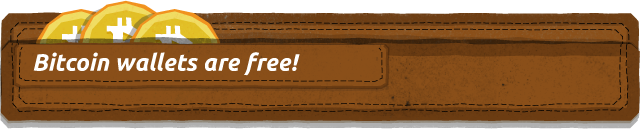
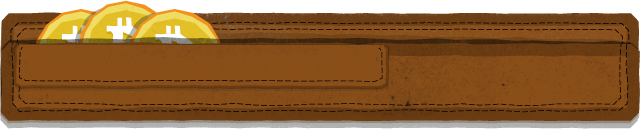
Translated remaining pages and updated merchant image.

Changed region(s): [[0.0312, 0.391, 0.4688, 0.5714]]

diff --git a/getting-started.html b/getting-started.html
@@ -1,9 +1,10 @@
 <!doctype html>
 <html>
 <head>
-<title>Getting Started with Bitcoin - We Use Coins</title>
+<meta http-equiv="Content-Type" content="text/html; charset=UTF-8">
+<title>ビットコインの利用を開始する</title>
 <link rel="stylesheet" href="fonts/Ubuntu.css" type="text/css" media="screen" />
-<link rel="stylesheet" href="style.css%3F1.css" type="text/css" media="screen" />
+<link rel="stylesheet" href="style.css" type="text/css" media="screen" />
 <link rel="shortcut icon" href="favicon.ico">
 <script language="javascript" src="http://ajax.googleapis.com/ajax/libs/jquery/1.5.2/jquery.min.js" type="text/javascript"></script>
 <script language="javascript" src="scripts/vendor/jquery.backgroundPosition.js" type="text/javascript"></script>
@@ -15,91 +16,72 @@
   <div id="header">
     <div id="logo"><a href="index.html"><span>We Use Coins</span></a></div>
     <ul id="menu">
-      <li id="menu_whatis"><a href="index.html"><span>What is Bitcoin?</span></a></li>
-      <li id="menu_getstarted"><a href="getting-started.php.html"><span>Getting Started</span></a></li>
-      <li id="menu_qna"><a href="questions.php.html"><span>Questions &amp; Answers</span></a></li>
-      <li id="menu_merchants"><a href="merchant-tools.php.html"><span>Bitcoin for Merchants</span></a></li>
+      <li id="menu_whatis"><a href="index.html"><span>ビットコイン<br />とは?</span></a></li>
+      <li id="menu_getstarted"><a href="getting-started.html"><span>利用を<br />開始する</span></a></li>
+      <li id="menu_merchants"><a href="merchant.html"><span>商用<br />ビットコイン</span></a></li>
     </ul>
     <div class="clear">&nbsp;</div>
   </div>
-  <img src="gx/tagline.png" alt="your portal into the world of bitcoin"/>
+  <h1>ビットコインの利用を開始する</h1>
   <div id="content">
-<h1 id="getwallet">Step 1 - Get a wallet</h1>
-<p>The <a href="http://www.bitcoin.org/">Original Bitcoin Client</a> is free, open-source software. The current version is <strong>0.7.1</strong>, you can download it here:</p>
+<h1 id="getwallet">ステップ１‐ ウォレットを作る</h1>
+<p><a href="http://www.bitcoin.co.jp/">オリジナル ビットコイン クライエント</a>は無料のオープンソース ソフトウェアです。現在のバージョンは<strong>0.7.1</strong>です。<br /><br />ここからダウンロードできます：</p>
 <a href="http://sourceforge.net/projects/bitcoin/files/Bitcoin/bitcoin-0.7.1/bitcoin-0.7.1-win32-setup.exe/download" class="downloadfeature"><img src="gx/os_win_l.png" alt="Windows Logo" class="icon"/>
   <p class="first title">Windows</p>
-  <p class="desc">Windows Setup (9.2MB)</p>
+  <p class="desc">インストーラー (9.2MB)</p>
   <div class="autobutton download"></div>
 </a>
 <a href="http://sourceforge.net/projects/bitcoin/files/Bitcoin/bitcoin-0.7.1/bitcoin-0.7.1-macosx.dmg/download" class="downloadfeature"><img src="gx/os_mac_l.png" alt="Mac Logo" class="icon"/>
   <p class="first title">Mac</p>
-  <p class="desc">Mac Installer (12.0MB)</p>
+  <p class="desc">インストーラー (12.0MB)</p>
   <div class="autobutton download"></div>
 </a>
 <a href="http://sourceforge.net/projects/bitcoin/files/Bitcoin/bitcoin-0.7.1/bitcoin-0.7.1-linux.tar.gz/download" class="downloadfeature"><img src="gx/os_linux_l.png" alt="Linux Logo" class="icon"/>
   <p class="first title">Linux</p>
-  <p class="desc">Code & Binaries (11.1MB)</p>
+  <p class="desc">コード ＆ バイナリー (11.1MB)</p>
   <div class="autobutton download"></div>
 </a>
 <div class="clear"></div>
 <img src="gx/img_wallet.png" alt="Bitcoin Wallet" class="img_right"/>
-<p>After downloading, simply install the client on your Windows, Mac or Linux computer. It will automatically create a wallet for you and start downloading the transaction history. (Future versions will have a &quot;lightweight&quot; mode where this is not necessary.)</p>
-<p>Another way to get a wallet is to get one online at <a href="http://www.flexcoin.com/">flexcoin</a>, <a href="http://www.instawallet.org/">InstaWallet</a> or <a href="https://blockchain.info/wallet">MyWallet</a>. With this option you don't have to install anything, but you have to take great care not to lose your password and you're trusting that site to keep your wallet safe.</p>
-<p>Once your wallet is set up, you'll get your first Bitcoin address, which means you're ready to receive Bitcoins!</p>
-<h1 id="getbitcoin">Step 2 - Get Bitcoins</h1>
+<p>ダウンロードが完了しましたら、あとはお持ちのWindows, Mac または Linux コンピューターにインストールするだけです。これによりお客様のウォレットが自動的に作成され、取引の履歴のダウンロードが始まります。この作業には数時間かかります。(今後のバージョンには｢ライト｣モードが追加される予定で、この過程が不要になります)</p>
+<p>ウォレットを作るもう一つの方法は、<a href="https://blockchain.info/wallet">Blockchain.info</a> のオンライン上で入手する方法です。一回限りのクイック ウォレットが必要な場合は、<a href="http://www.instawallet.org/">InstaWallet.org</a> をお試しください。</p>
+<p>ウォレットのセットアップが完了しましたら、最初のビットコイン アドレス を入手してください。これでビットコインを受け取る準備ができました。</p>
+<div class="clear">&nbsp;</div>
+<h1 id="getbitcoin">ステップ２‐ ビットコインを手に入れる</h1>
 <div class="amountpara">
 <img src="gx/amount_few.png" alt="Small amount of coins"/>
-<p>Not the most convenient way, but <a href="https://en.bitcoin.it/wiki/Bonus_Programs">bonus programs</a> offer small amounts of Bitcoins when making other purchases, for completing surveys etc.</p>
+<p><a href="https://en.bitcoin.it/wiki/Bonus_Programs">ボーナス プログラム</a>（英語）は最も便利な方法ではありませんが、他の購入または調査を完了いただいた際に、小額のビットコインを差し上げます。</p>
 </div>
 <div class="amountpara">
 <img src="gx/amount_some.png" alt="Medium amount of coins"/>
-<!--<p>For anyone buying less than 40 BTC/week, <a href="http://coinpal.ndrix.com/">CoinPal</a> sells Bitcoins through PayPal.</p>-->
-<p>See if there are local Bitcoiners in your area at <a href="http://localbitcoins.com/">LocalBitcoins.com</a> and <a href="http://www.tradebitcoin.com/">TradeBitcoin.com</a>!</p>
-<p>Physical Bitcoins are available through <a href="http://www.casascius.com">Casascius</a> and <a href="http://www.bitbills.com">BitBills</a>. Those places only accept Bitcoin, but you can get them with a credit card through <a href="http://www.memorydealers.com/bieq.htm">MemoryDealers</a>. You do pay a markup for the production and delivery, but it's a fairly easy way to get moderate amounts of coins. Plus the physical coins make a great and memorable gift!</p>
+<p>数千円の取引については、<a href="http://localbitcoins.com/">LocalBitcoins.com</a> または<a href="http://www.tradebitcoin.com/">TradeBitcoin.com</a>でお客様のお住まいの地域にビットコイン ユーザーがいるかお確かめください。</p>
 </div>
 <div class="amountpara">
 <img src="gx/amount_lots.png" alt="Large amount of coins"/>
-<p>For larger purchases there are several currency exchanges, such as <a href="https://www.mtgox.com/">Mt. Gox</a>, <a href="https://www.intersango.com/">Intersango</a>, <a href="https://www.cavirtex.com/">Virtex (CA)</a> and <a href="https://get-bitcoin.com/">GetBitcoin (US)</a>.</p>
-<p>Fund your exchange accounts or  buy Bitcoin directly at one of over 700 000 locations worldwide via <a href="https://www.bitinstant.com/">BitInstant</a>.</p>
-<p>If you prefer skipping the exchange and dealing directly with other people you can head over to <a href="http://bitcoin-otc.com/">Bitcoin OTC</a>.</p>
+<p>ビットコインのより高額の購入については、いくつかの両替所があります。これらは口座を作るのに時間がかかりますが、非常に安全です。当サイトのお勧めは渋谷にある<a href="https://www.mtgox.com/">Mt. Gox</a>です。</p>
 </div>
 <div class="clear">&nbsp;</div>
 
-<h1 id="whattodo">What to do with my Bitcoins?</h1>
-<p>You can find lots of Bitcoin-related services on the <a href="https://en.bitcoin.it/wiki/Trade">Trade page</a> in the Bitcoin Wiki.</p>
-<p>Check out Bitcoin's largest online auction house at <a href="http://bitmit.net/">BitMit</a>!</p>
-<p>An increasing number of physical stores, restaurants and other venues accept Bitcoin as well. Check <a href="http://bitcoin.travel/">Bitcoin Travel</a> and <a href="http://bitcoinnavigator.com/">Bitcoin Navigator</a> to see if there are any in your area.</p>
-<p>Turn your Bitcoins into gift cards from Amazon, Barnes & Noble, iTunes and many more at <a href="https://www.spendbitcoins.com/">SpendBitcoins.com</a>. Or get gift codes for services like XBoxLive, PSN or iTunes instantly online at <a href="http://bitcoincodes.com/">Bitcoincodes.com</a>.</p>
-<p>Buy music, ebooks, wallpapers and other downloadable content at <a href="https://www.coindl.com/">CoinDL</a>!</p>
-<p>You might also want to check the <a href="http://www.bitcoin.org/smf/index.php?board=5.0">Bitcoin Marketplace forum</a> on Bitcoin.org.</p>
-<p>Over-the-counter trading is being done via IRC chat in <a href="http://bitcoin-otc.com/">Bitcoin OTC</a> (#bitcoin-otc on Freenode).</p>
+<h1 id="whattodo">ビットコインを使って何ができますか？</h1>
+<p>ビットコイン ウィキの<a href="https://en.bitcoin.it/wiki/Trade">トレード ページ</a>でビットコインに関連した多くのサービスをみつけることができます。</p>
+<p><a href="http://bitmit.net/">BitMit.net</a>でビットコインの最大の<strong>オークション サイト</strong>をお試しください！</p>
+<p>実在の店舗、レストランやその他の場所でもビットコインを利用できるところが増えています。お客様のお住まいのエリアにあるかどうか、<a href="http://bitcoin.travel/">ビットコイン トラベル</a> または <a href="http://bitcoinnavigator.com/">ビットコイン ナビゲーター</a> でお確かめください。</p>
+<p><a href="https://www.coindl.com/">CoinDL.com</a>で、音楽、電子書籍、壁紙、その他のダウンロード可能コンテンツを購入できます！</p>
+<p><a href="https://bitcointalk.org/index.php?board=5.0">ビットコイン マーケットプレース フォーラム</a>もご覧ください。</p>
+<p>Freenodeの#bitcoin-otcにおけるIRCチャットを通じて<strong>店頭取引</strong>を行うことも可能です。<a href="http://bitcoin-otc.com/">(bitcoin-otc.com)</a></p>
 
-<h1 id="keepup">Keep up with the community <a href="getting-started.php.html#" class="blocktoggle"> more &raquo;</a></h1>
-<div class="block_outer">
-<div class="block" style="display: none">
-<p class="first">Here are some good places to follow if you want to stay in touch with current Bitcoin events:</p>
-<ul>
-  <li><a href="http://www.bitcoinmoney.com">Bitcoin Money</a> - Bitcoin news and articles</li>
-  <li><a href="http://www.bitcoinnews.com">Bitcoin News</a> - Daily diary of what's happening with Bitcoin</li>
-  <li><a href="http://www.thebitcointrader.com">The Bitcoin Trader</a> - Blog with original articles about the Bitcoin market</li>
-  <li><a href="http://www.reddit.com/r/bitcoin">r/bitcoin</a> - Bitcoin links and discussion by the Reddit community</li>
-  <li><a href="http://btctrading.wordpress.com">Bitcoin Trading Signals</a> - Technical analysis and market coverage</li>
-  <li><a href="http://themonetaryfuture.blogspot.com">The Monetary Future</a> - Virtual currency news and analysis</li>
-</ul>
-<p class="last">Also, for an overview of the Bitcoin world at a glance, try <a href="http://www.bitcoinwatch.com/">Bitcoin Watch</a>.</p>
-</div>
-</div>
   </div>
   <div id="needhelp" class="box featurebox fullwidth">
-    <div class="left"><strong>Need help?</strong> Email <a href="mailto:help@weusecoins.com">help@weusecoins.com</a> to contact one of our volunteers.</div>
-    <div class="right">Powered by <a href="http://www.coinabul.com/">Coinabul</a></div>
+    <div class="left"><strong>お困りですか ?</strong> <a href="mailto:help@weusecoins.jp">help@weusecoins.jp</a> へメールを下されば、ボランティアの一人が対応します。</div>
+    <div class="right">翻訳： <a href="http://jonwaller.net/ja/">jonwaller.net</a></div>
     <div class="clear"></div>
   </div>
   <div id="footer">
-	<div class="footermenu"><ul><li><a href="materials.php.html">Materials</a></li><li><a href="about.php.html">About</a></li></ul></div>
-	<a href="http://creativecommons.org/licenses/by/3.0/" class="cclogo"><img src="gx/footer_cc.png" alt=""/></a>
-	<div class="license">This work is licensed under a<br>
-	<a href="http://creativecommons.org/licenses/by/3.0/">Creative Commons Attribution 3.0 Unported License</a></div>
+  <div class="footermenu"><ul><li><a href="about.html">このサイトについて</a></li></ul></div>
+  <a href="http://creativecommons.org/licenses/by/3.0/" class="cclogo"><img src="gx/footer_cc.png" alt=""/></a>
+  <div class="license">
+    This work is licensed under a <a href="http://creativecommons.org/licenses/by/3.0/">Creative Commons Attribution 3.0 Unported License</a>.<br />
+    This work is based on the original English-language site at <a href="http://www.weusecoins.com/">weusecoins.com</a>.
   </div>
 </div>
 

diff --git a/merchant.html b/merchant.html
@@ -1,9 +1,10 @@
 <!doctype html>
 <html>
 <head>
-<title>Merchant Solutions Bitcoin - Shopping cart APIs and Merchant Tools - We Use Coins</title>
+<meta http-equiv="Content-Type" content="text/html; charset=UTF-8">
+<title>商用ビットコイン - APIと商用ツール</title>
 <link rel="stylesheet" href="fonts/Ubuntu.css" type="text/css" media="screen" />
-<link rel="stylesheet" href="style.css%3F1.css" type="text/css" media="screen" />
+<link rel="stylesheet" href="style.css" type="text/css" media="screen" />
 <link rel="shortcut icon" href="favicon.ico">
 <script language="javascript" src="http://ajax.googleapis.com/ajax/libs/jquery/1.5.2/jquery.min.js" type="text/javascript"></script>
 <script language="javascript" src="scripts/vendor/jquery.backgroundPosition.js" type="text/javascript"></script>
@@ -13,52 +14,38 @@
 <div id="background"></div>
 <div id="wrapper">
   <div id="header">
-    <div id="logo"><a href="index.html"><span>We Use Coins</span></a></div>
+    <div id="logo"><a href="index.html"><span>We Use Coins 日本</span></a></div>
     <ul id="menu">
-      <li id="menu_whatis"><a href="index.html"><span>What is Bitcoin?</span></a></li>
-      <li id="menu_getstarted"><a href="getting-started.php.html"><span>Getting Started</span></a></li>
-      <li id="menu_qna"><a href="questions.php.html"><span>Questions &amp; Answers</span></a></li>
-      <li id="menu_merchants"><a href="merchant-tools.php.html"><span>Bitcoin for Merchants</span></a></li>
+      <li id="menu_whatis"><a href="index.html"><span>ビットコイン<br />とは?</span></a></li>
+      <li id="menu_getstarted"><a href="getting-started.html"><span>利用を<br />開始する</span></a></li>
+      <li id="menu_merchants"><a href="merchant.html"><span>商用<br />ビットコイン</span></a></li>
     </ul>
     <div class="clear">&nbsp;</div>
   </div>
-  <img src="gx/tagline.png" alt="your portal into the world of bitcoin"/>
+  <h1><strong>商用ビットコイン</strong></h1>
   <div id="content">
 
 <img src="gx/img_shop.png" alt="Bitcoin Shop" class="img_right"/>
-<h1 id="whatbenefits">What are the benefits for Merchants?</h1>
-<p>Bitcoins have great properties for consumer transactions. Low fees mean you can pass the savings on and get a price advantage over other merchants. There are no chargebacks in Bitcoin, any confirmed transaction is protected by the full hashing power of the network. So businesses can accept bitcoins from any country in the world, with no risk of fraud or chargebacks.</p>
+<h1 id="whatbenefits">販売業者にとっての利点は何ですか？</h1>
+<p>商取引において世界中のあらゆる国からビットコインを受け取ることができます。手数料が安く、支払い拒否がないため、顧客に節約分を還元でき、また他の販売業者に対し価格において優位に立つことができます。</p>
 
-<h1 id="pos">Point-of-Sale (POS) Transactions</h1>
-<p>In retail stores, Bitcoins can be used side-by-side with local currency and credit cards.  The merchant will need some type of point-of-sale software, which can calculate the exchange rate. They can generate an address to the shopper and monitor their account to see the payment has been received.</p>
-
-<h1 id="features">Features to look for</h1>
-<p>Here are some common questions that merchants should ask:</p>
-<ol>
-  <li>Can I get a unique Bitcoin address for each transaction?</li>
-  <li>How is the exchange rate calculated?</li>
-  <li>How fast are payments approved?</li>
-  <li>What is my exchange rate risk?</li>
-  <li>How do I receive the funds?</li>
-  <li>Are there any fees involved?</li>
-  <li>How can I see a listing of my sales?</li>
-</ol>
-
-<h1 id="providers">Payment providers</h1>
-<p>Merchant tools with USD exchange: <a href="https://bitpay.com">BitPay</a>, <a href="https://paysius.com/">Paysius</a> and <a href="http://bitspend.eu">BitSpend.EU</a></p>
-<p>Bitcoin-only merchant tools: <a href="https://walletbit.com/">WalletBit</a> and <a href="http://www.acceptbit.com/">AcceptBit</a>.</p>
-<p>A full list of available shopping cart interfaces can be found at the <a href="https://en.bitcoin.it/wiki/Category:Shopping_Cart_Interfaces">Wiki page</a>.</p>
+<h1 id="providers">商用ツール</h1>
+<p>ビットコインとドル： <a href="https://bitpay.com">BitPay.com</a>や<a href="https://paysius.com/">Paysius.com</a></p>
+<p>ビットコインだけ：<a href="https://walletbit.com/">WalletBit.com</a>や<a href="http://www.acceptbit.com/">AcceptBit.com</a></p>
+<p>オンラインストーア： <a href="https://en.bitcoin.it/wiki/Category:Shopping_Cart_Interfaces">オンラインストーアのウィキページ</a></p>
   </div>
   <div id="needhelp" class="box featurebox fullwidth">
-    <div class="left"><strong>Need help?</strong> Email <a href="mailto:help@weusecoins.com">help@weusecoins.com</a> to contact one of our volunteers.</div>
-    <div class="right">Powered by <a href="http://www.coinabul.com/">Coinabul</a></div>
+    <div class="left"><strong>お困りですか ?</strong> <a href="mailto:help@weusecoins.jp">help@weusecoins.jp</a> へメールを下されば、ボランティアの一人が対応します。</div>
+    <div class="right">翻訳： <a href="http://jonwaller.net/ja/">jonwaller.net</a></div>
     <div class="clear"></div>
   </div>
   <div id="footer">
-	<div class="footermenu"><ul><li><a href="materials.php.html">Materials</a></li><li><a href="about.php.html">About</a></li></ul></div>
-	<a href="http://creativecommons.org/licenses/by/3.0/" class="cclogo"><img src="gx/footer_cc.png" alt=""/></a>
-	<div class="license">This work is licensed under a<br>
-	<a href="http://creativecommons.org/licenses/by/3.0/">Creative Commons Attribution 3.0 Unported License</a></div>
+  <div class="footermenu"><ul><li><a href="about.html">このサイトについて</a></li></ul></div>
+  <a href="http://creativecommons.org/licenses/by/3.0/" class="cclogo"><img src="gx/footer_cc.png" alt=""/></a>
+  <div class="license">
+    This work is licensed under a <a href="http://creativecommons.org/licenses/by/3.0/">Creative Commons Attribution 3.0 Unported License</a>.<br />
+    This work is based on the original English-language site at <a href="http://www.weusecoins.com/">weusecoins.com</a>.
+  </div>
   </div>
 </div>
 

diff --git a/index.html b/index.html
@@ -1,6 +1,7 @@
 <!doctype html>
 <html>
 <head>
+<meta http-equiv="Content-Type" content="text/html; charset=UTF-8">
 <title>ビットコインとは ? Bitcoinの説明　- We Use Coins 日本</title>
 <link rel="stylesheet" href="fonts/Ubuntu.css" type="text/css" media="screen" />
 <link rel="stylesheet" href="style.css" type="text/css" media="screen" />
@@ -8,7 +9,6 @@
 <script language="javascript" src="http://ajax.googleapis.com/ajax/libs/jquery/1.5.2/jquery.min.js" type="text/javascript"></script>
 <script language="javascript" src="scripts/vendor/jquery.backgroundPosition.js" type="text/javascript"></script>
 <script language="javascript" src="scripts/common.js" type="text/javascript"></script>
-<meta http-equiv="Content-Type" content="text/html; charset=UTF-8">
 </head>
 <body>
 <div id="background"></div>
@@ -53,7 +53,7 @@
   <iframe id="ytplayer" type="text/html" width="640" height="390" src="http://www.youtube.com/embed/89Uu44voviU?fs=1&amp;hl=ja&amp;cc_load_policy=0&amp;rel=0&amp;hd=1&amp;origin=http://weusecoins.jp" frameborder="0" allowfullscreen></iframe>
 </div>
 <div id="walletbanner"><span class="caption"></span><a class="fbtn small" href="getting-started.html">開始する &raquo;</a></div>
-<div class="merchantfeature"><img src="gx/board_merchant_minutes.gif"/><a class="fbtn tiny" href="merchant.html">詳細情報 &raquo;</a></div>
+<div class="merchantfeature"><img src="gx/board_merchant_minutes.png"/><a class="fbtn tiny" href="merchant.html">詳細情報 &raquo;</a></div>
 <div class="box featurebox icon">
   <img class="icon" alt="Padlock Icon" src="gx/feature_secure.png"/>
   <h1>安全</h1>
@@ -110,7 +110,7 @@
     <div class="clear"></div>
   </div>
   <div id="footer">
-	<div class="footermenu"><ul><li><a href="about.html">About</a></li></ul></div>
+	<div class="footermenu"><ul><li><a href="about.html">このサイトについて</a></li></ul></div>
 	<a href="http://creativecommons.org/licenses/by/3.0/" class="cclogo"><img src="gx/footer_cc.png" alt=""/></a>
 	<div class="license">
     This work is licensed under a <a href="http://creativecommons.org/licenses/by/3.0/">Creative Commons Attribution 3.0 Unported License</a>.<br />

diff --git a/scripts/whatis.js b/scripts/whatis.js
@@ -6,7 +6,7 @@ $(function(){
     template: function(i) {return '<div><a href="http://twitter.com/'+i["screen_name"]+'" class="user">@'+i["screen_name"]+'</a> <span class="time">'+i["tweet_relative_time"]+'</span></div><span class="message">'+i["text"]+'</span> ';}
   });
   stLight.options({
-    publisher:'ba14bff6-6b5a-4bef-a218-774fae33c140'
+    publisher:'8b294793-0d1f-46fb-b429-30f41189cc59' //info(at)weusecoins.jp
   });
 
   $(".newsbox .expand").click(function () {

diff --git a/style.css b/style.css
@@ -1169,7 +1169,7 @@ ul.qnalist li {
 .merchantfeature .fbtn {
     position: absolute;
     left: 85px;
-    bottom: 13px;
+    bottom: 16px;
 }
 
 .mediaslit {
